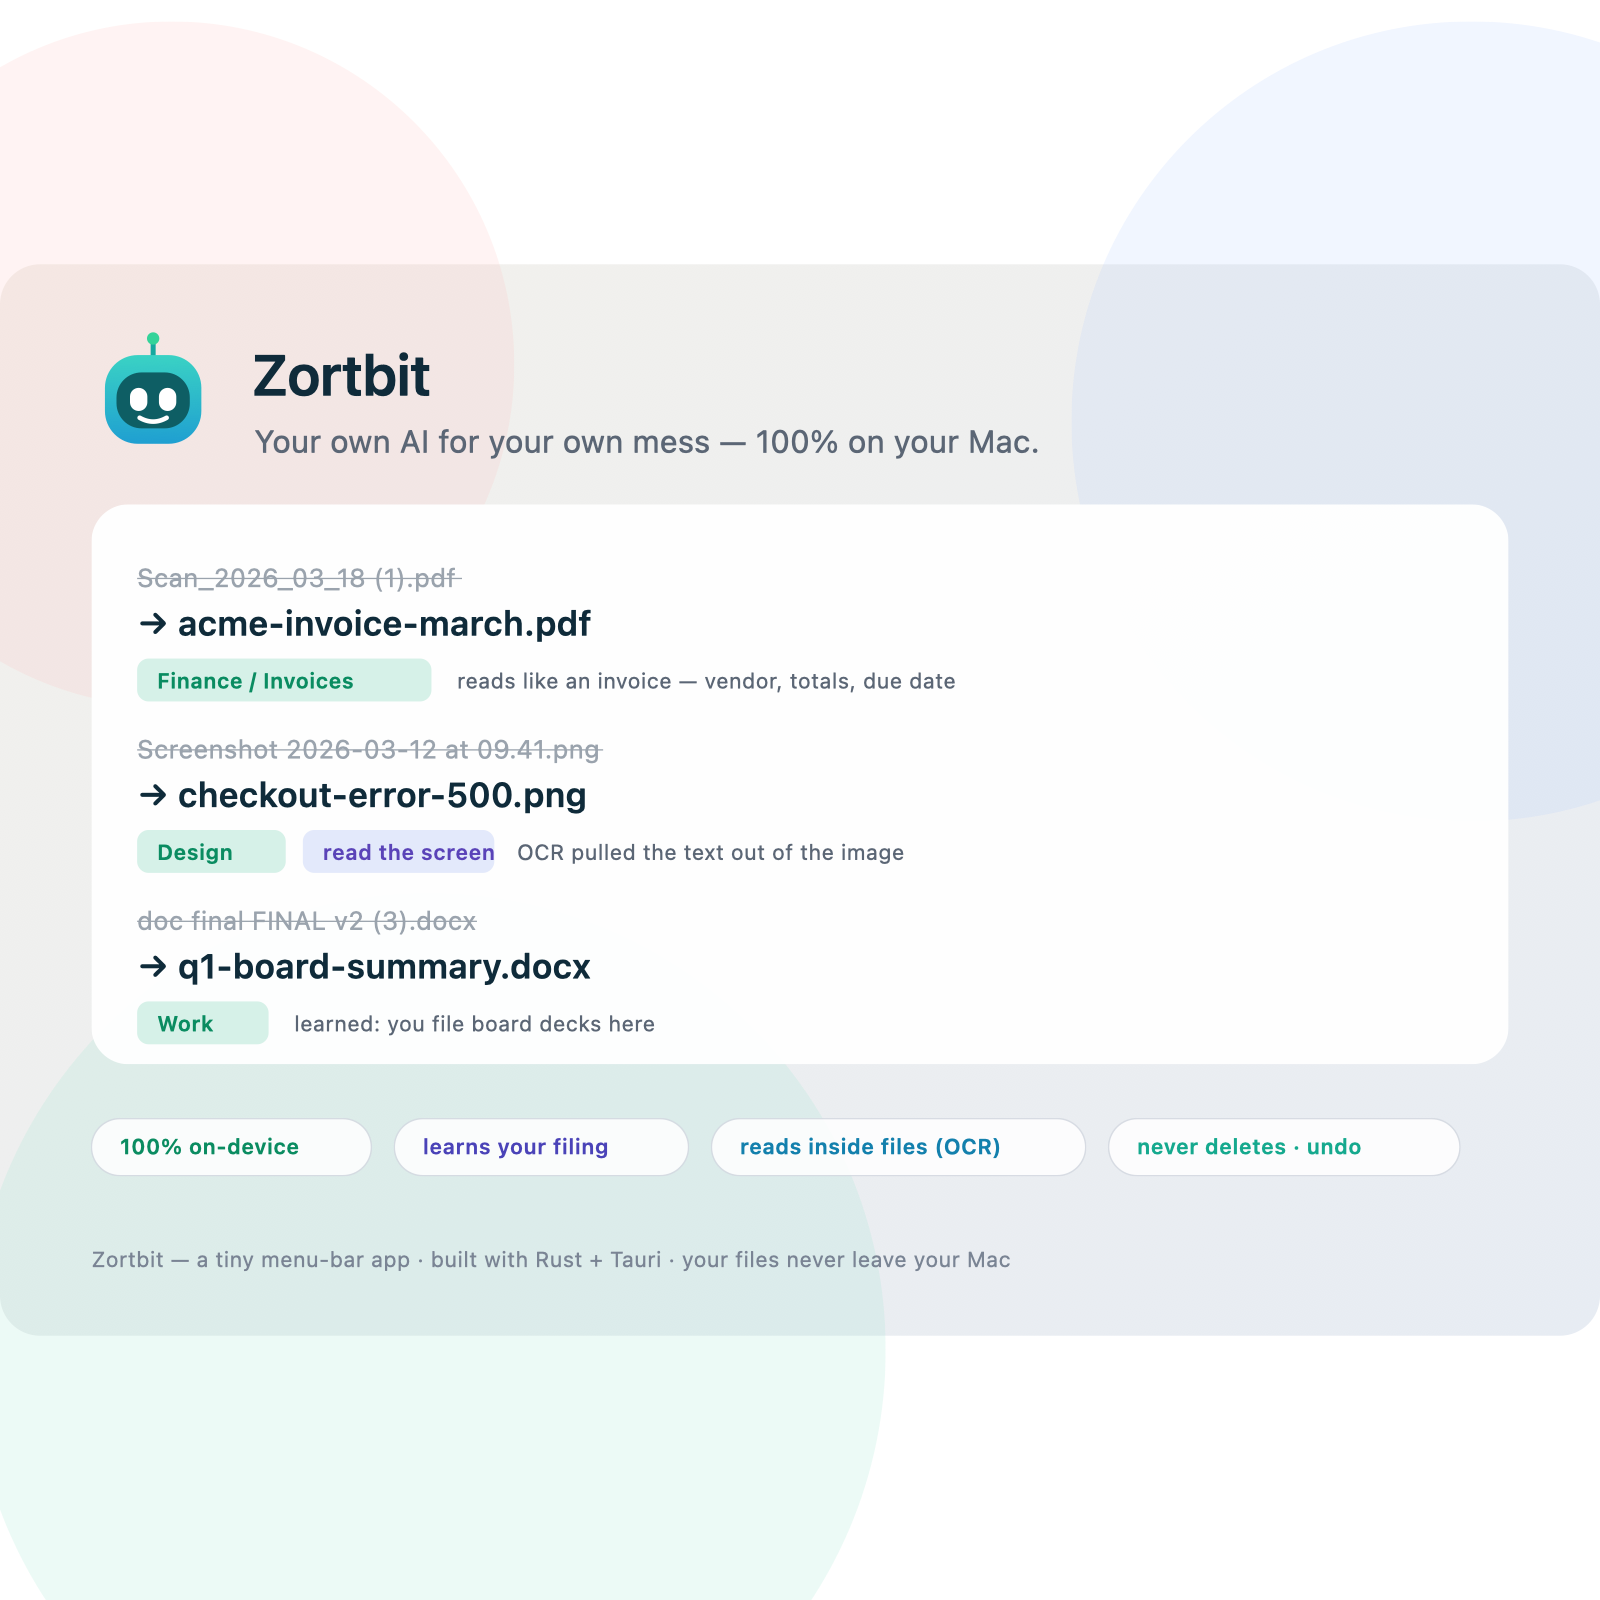
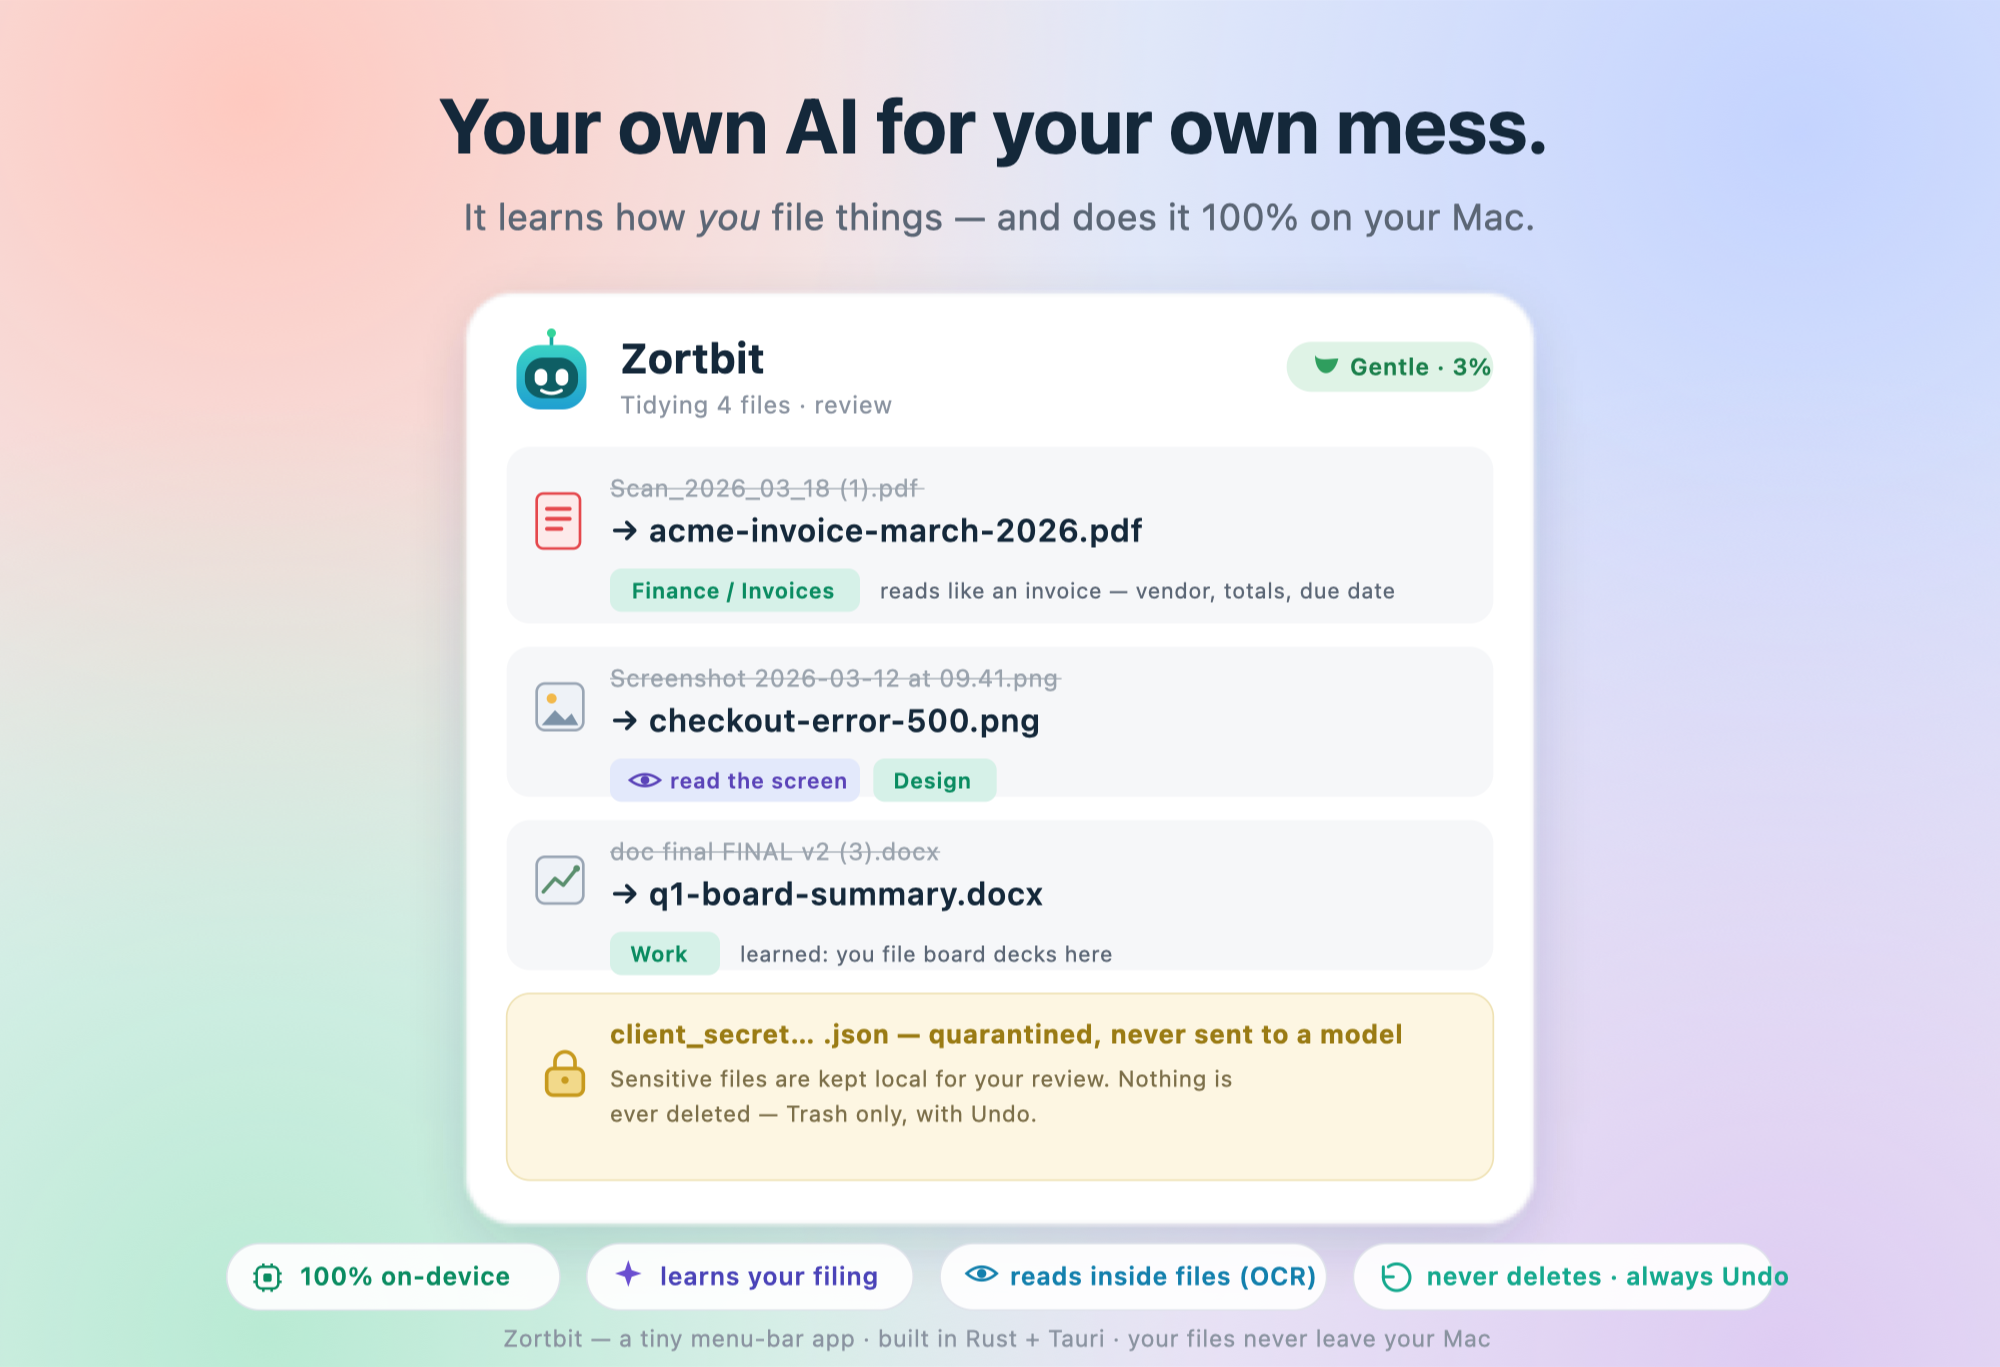
Polish README: richer demo hero image, badges, and "what's coming" roadmap
- docs/demo.png: full app-chrome demo render (Gentle pill, type icons,
  quarantine card, icon chips) — much nicer hero
- Centered hero with shields badges
- Roadmap reframed as upcoming features (Gentle Mode, model presets, rules,
  notarized app, Win/Linux, vision model, tidy digest)

diff --git a/README.md b/README.md
@@ -1,13 +1,24 @@
+<div align="center">
+
 # Zortbit 🤖
 
-**Your own AI that learns how *you* file your mess — 100% on your Mac.**
+### Your own AI for your own mess.
 
-Zortbit is a tiny macOS menu-bar app that watches your Downloads, reads what files
-actually *are* (OCR for screenshots, text for documents), and proposes a tidy name plus
-the right folder — using a **local** model via [Ollama](https://ollama.com). Nothing
-leaves your machine, nothing is ever permanently deleted, and every move is reversible.
+**It learns how *you* file things — and does it 100% on your Mac.**
 
-![Zortbit organizing files into project folders by their content](docs/demo.png)
+![macOS 13+](https://img.shields.io/badge/macOS-13%2B-111?logo=apple&logoColor=white)
+&nbsp;![Rust + Tauri](https://img.shields.io/badge/Rust%20%2B%20Tauri-ce422b?logo=rust&logoColor=white)
+&nbsp;![100% on-device](https://img.shields.io/badge/100%25-on--device-3a8ee6)
+&nbsp;![License: MIT](https://img.shields.io/badge/license-MIT-3fae5a)
+
+<img src="docs/demo.png" alt="Zortbit reading files and proposing tidy names and the right folder" width="840">
+
+</div>
+
+Zortbit is a tiny macOS menu-bar app that watches your Downloads, reads what files actually
+*are* (OCR for screenshots, text for documents), and proposes a tidy name plus the right
+folder — using a **local** model. Nothing leaves your machine, nothing is ever permanently
+deleted, and every move is reversible.
 
 ## Why
 
@@ -96,11 +107,19 @@ approve the same kind of move a few times, set `"automation": "auto"` and it wil
 trusted, high-confidence moves silently in the background** as new files arrive. It will **never**
 auto-delete and **never** auto-touch sensitive files — those always wait for your explicit ok.
 
-## Roadmap
+## Roadmap — what's coming
 
-- Bundle the OCR sidecar + Developer ID signing/notarization for sharing the `.app`
-- Optional local vision model for text-less photos
-- "Gentle Mode" scheduler (throttle by system load, ETA, pre-shutdown alert)
+- **Gentle Mode scheduler** (the "Gentle · 3%" in the screenshot) — tidy quietly in the
+  background, throttled by system load, with an ETA and a heads-up before shutdown.
+- **One-click model presets** in onboarding — pick Ollama, Microsoft Foundry Local, or LM Studio
+  without hand-editing config.
+- **Pin-your-own rules** — "always send invoices to Finance", "never touch `~/Code`".
+- **Signed & notarized `.app`** + auto-update, so it shares without Gatekeeper warnings.
+- **Optional local vision model** for photos that have no text.
+- **Windows & Linux** builds.
+- A weekly **tidy digest** — what got filed, and what's still waiting on you.
+
+Ideas and PRs for any of these are very welcome.
 
 ## Contributing
 